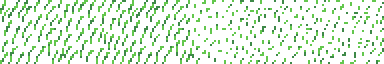
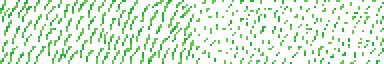
color tweak

diff --git a/src/components/Grid.svelte b/src/components/Grid.svelte
@@ -210,6 +210,8 @@
 		background-image: url("/assets/images/grass.png");
 		background-size: var(--grass-bg-size);
 		background-position: var(--grass-x, 0%) 0%;
+		/* lighten */
+		filter: brightness(1.25);
 	}
 
 	.cell.obstacle {

diff --git a/src/styles/variables.css b/src/styles/variables.css
@@ -27,6 +27,7 @@
   --color-green-medium: #3e8948;
   --color-green-dark: #265c42;
   --color-green-darker: #193c3e;
+  --color-green-custom: #2f6837;
   --color-red-light: #e43b44;
   --color-red-medium: #ff0044;
   --color-red-dark: #a22633;